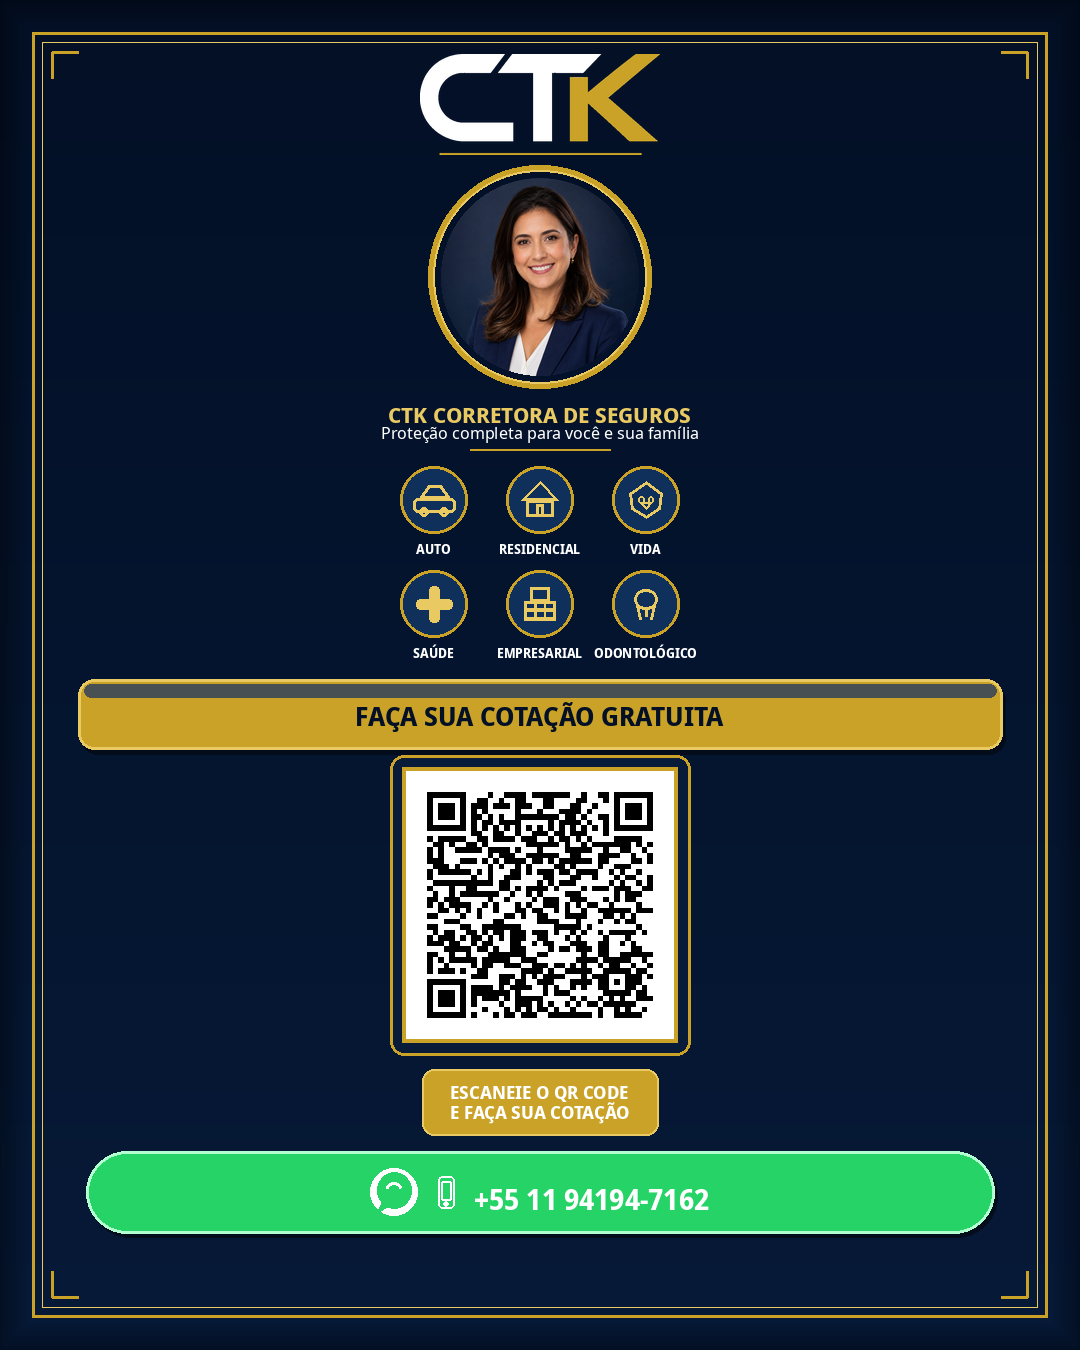
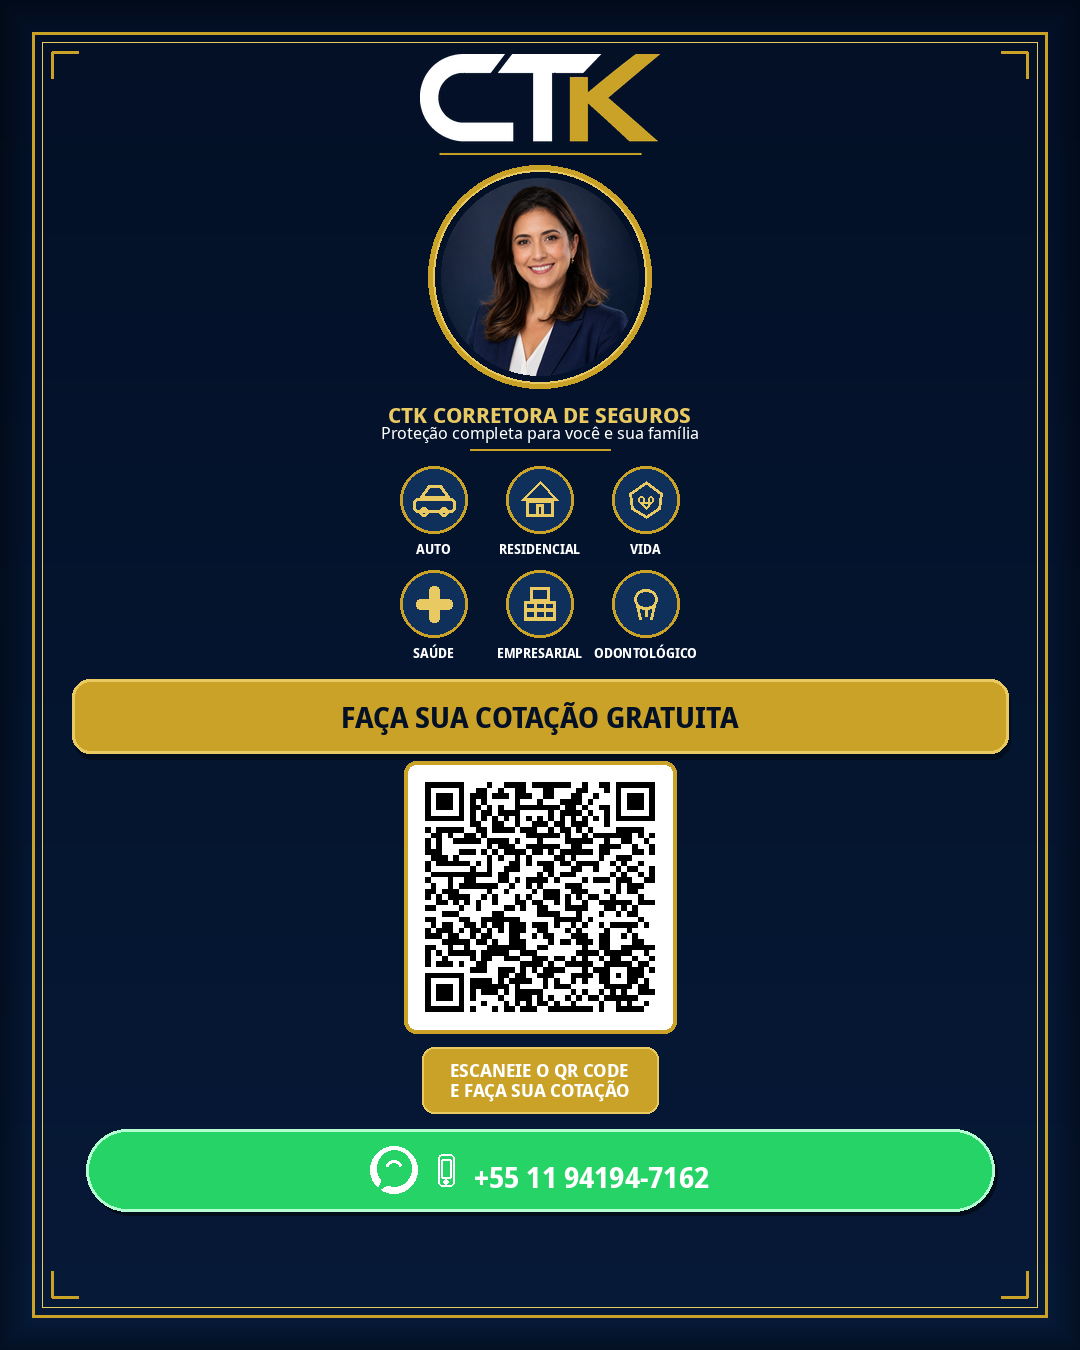
Polish CTK CTA band and QR frame alignment
Remove CTA grey artifact, solid gold highlight bar, cleaner single
gold QR enclosure, regenerate verified 1080x1350 PNG.

Changed region(s): [[0.0611, 0.4978, 0.9472, 0.9333]]

diff --git a/ctk-arte-whatsapp/gerar_arte.py b/ctk-arte-whatsapp/gerar_arte.py
@@ -211,13 +211,7 @@ def make_qr(pixel: int = 236) -> Image.Image:
     qr.add_data(QR_URL)
     qr.make(fit=True)
     raw = qr.make_image(fill_color="black", back_color="white").convert("RGB")
-    raw = raw.resize((pixel, pixel), Image.Resampling.NEAREST)
-    pad = 14
-    frame = Image.new("RGB", (pixel + pad * 2, pixel + pad * 2), WHITE)
-    fd = ImageDraw.Draw(frame)
-    fd.rectangle([0, 0, pixel + pad * 2 - 1, pixel + pad * 2 - 1], outline=GOLD, width=4)
-    frame.paste(raw, (pad, pad))
-    return frame
+    return raw.resize((pixel, pixel), Image.Resampling.NEAREST)
 
 
 def wa_glyph(size: int = 44) -> Image.Image:
@@ -320,31 +314,30 @@ def compose() -> Image.Image:
 
     y += 2 * (icon_s + label_h + 16) + 6
 
-    # CTA DESTACADO
+    # CTA DESTACADO — faixa dourada sólida, sem artefatos
     cta = "FAÇA SUA COTAÇÃO GRATUITA"
-    f_cta = F(26, True)
+    f_cta = F(28, True)
     tw, th = text_size(draw, cta, f_cta)
-    cta_h = 70
-    cta_m = 78
-    # sombra
-    rounded(draw, (cta_m + 3, y + 5, W - cta_m + 3, y + cta_h + 5), 16, fill=(0, 0, 0, 110))
-    rounded(draw, (cta_m, y, W - cta_m, y + cta_h), 16, fill=GOLD, outline=GOLD_LIGHT, width=3)
-    # destaque interno
-    rounded(draw, (cta_m + 6, y + 5, W - cta_m - 6, y + 18), 8, fill=(255, 240, 180, 70))
+    cta_h = 74
+    cta_m = 72
+    # sombra suave abaixo
+    rounded(draw, (cta_m + 2, y + 6, W - cta_m + 2, y + cta_h + 6), 18, fill=(0, 0, 0, 100))
+    rounded(draw, (cta_m, y, W - cta_m, y + cta_h), 18, fill=GOLD)
+    rounded(draw, (cta_m, y, W - cta_m, y + cta_h), 18, outline=GOLD_LIGHT, width=3)
     draw.text(((W - tw) // 2, y + (cta_h - th) // 2 - 1), cta, font=f_cta, fill=NAVY_DEEP)
     y += cta_h + 18
 
-    # QR maior e enquadrado
-    qr = make_qr(248)
+    # QR maior e enquadrado (uma moldura limpa)
+    qr = make_qr(252)
     qx = (W - qr.width) // 2
-    box_pad = 12
+    box_pad = 10
     rounded(
         draw,
         (qx - box_pad, y - box_pad, qx + qr.width + box_pad, y + qr.height + box_pad),
-        14,
-        fill=NAVY,
+        12,
+        fill=WHITE,
         outline=GOLD,
-        width=3,
+        width=4,
     )
     layer.paste(qr, (qx, y))
     y += qr.height + box_pad + 14
